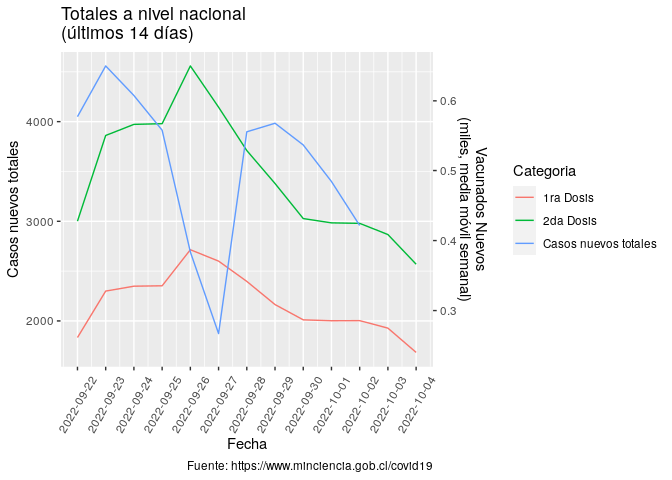
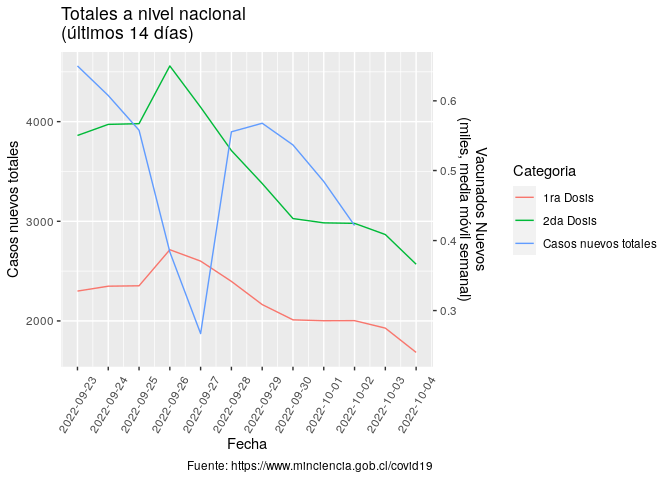
Re-build Rmarkdown files

diff --git a/README.md b/README.md
@@ -3,7 +3,7 @@
 
 Ejemplo de uso de total\_casos de COVID recopilados por el Ministerio de
 Ciencia de Chile <https://www.minciencia.gob.cl/covid19>. Última
-actualización: 2022-10-05
+actualización: 2022-10-06
 
 ## Visualización desde el comienzo de la pandemia
 
